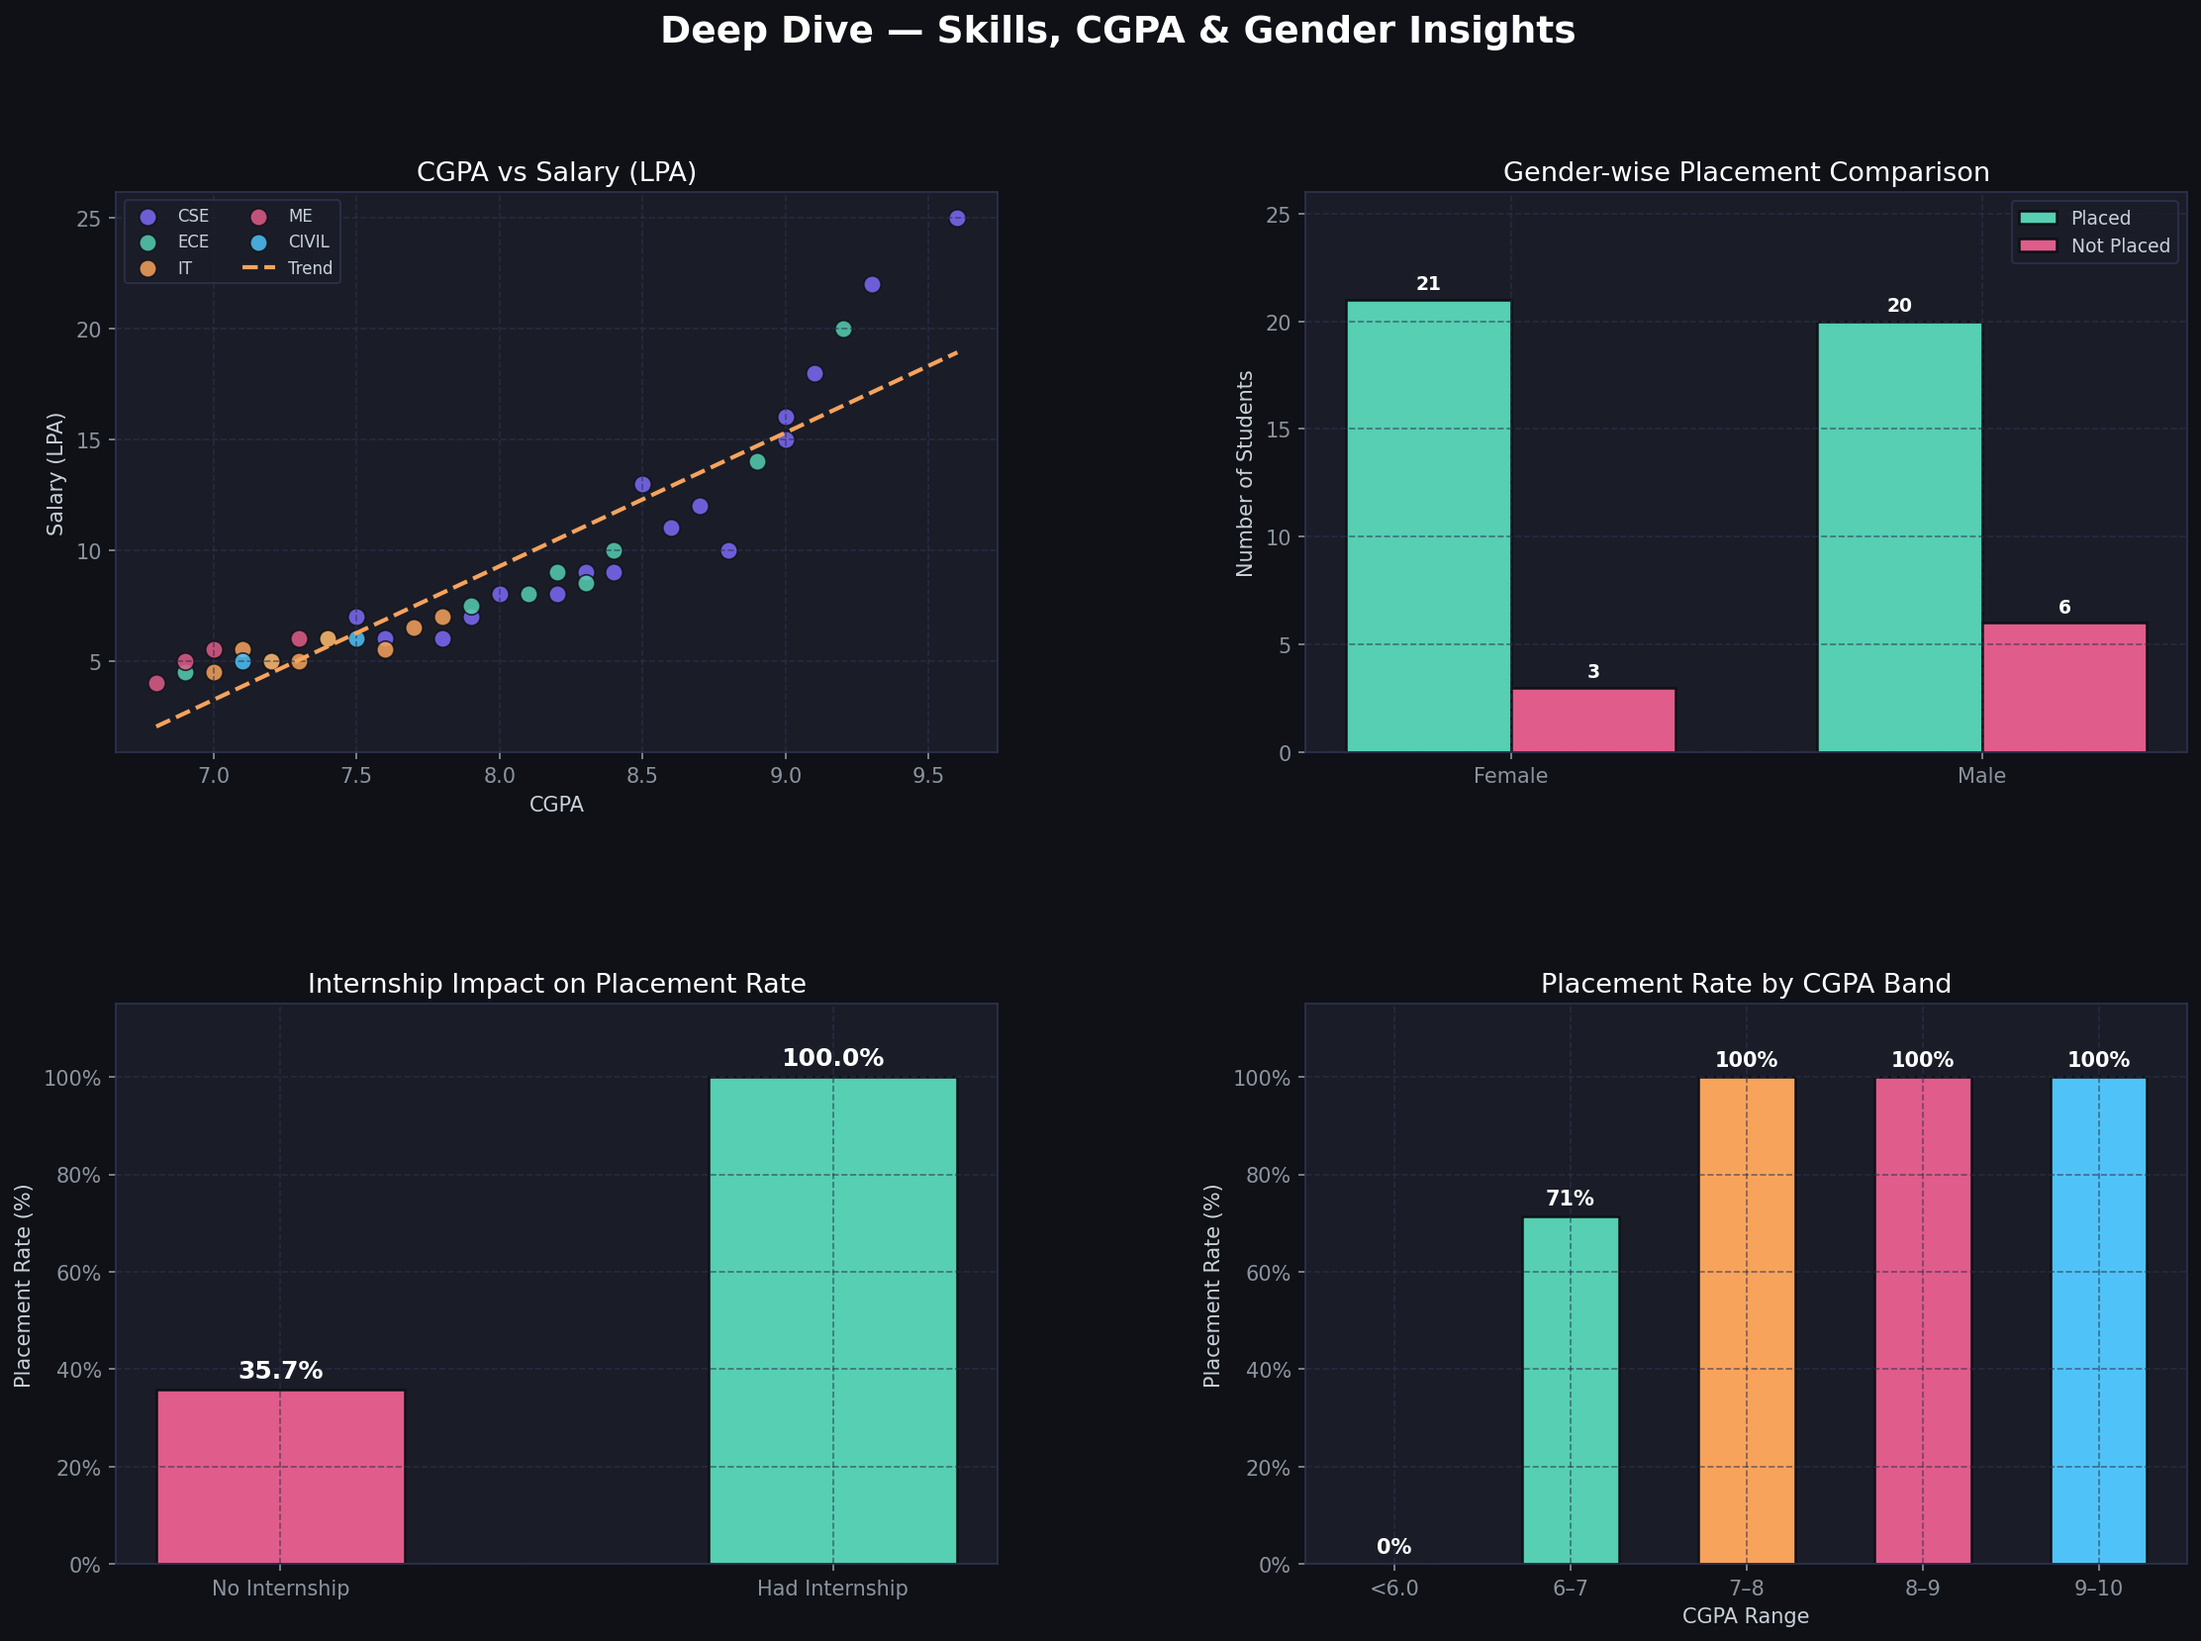
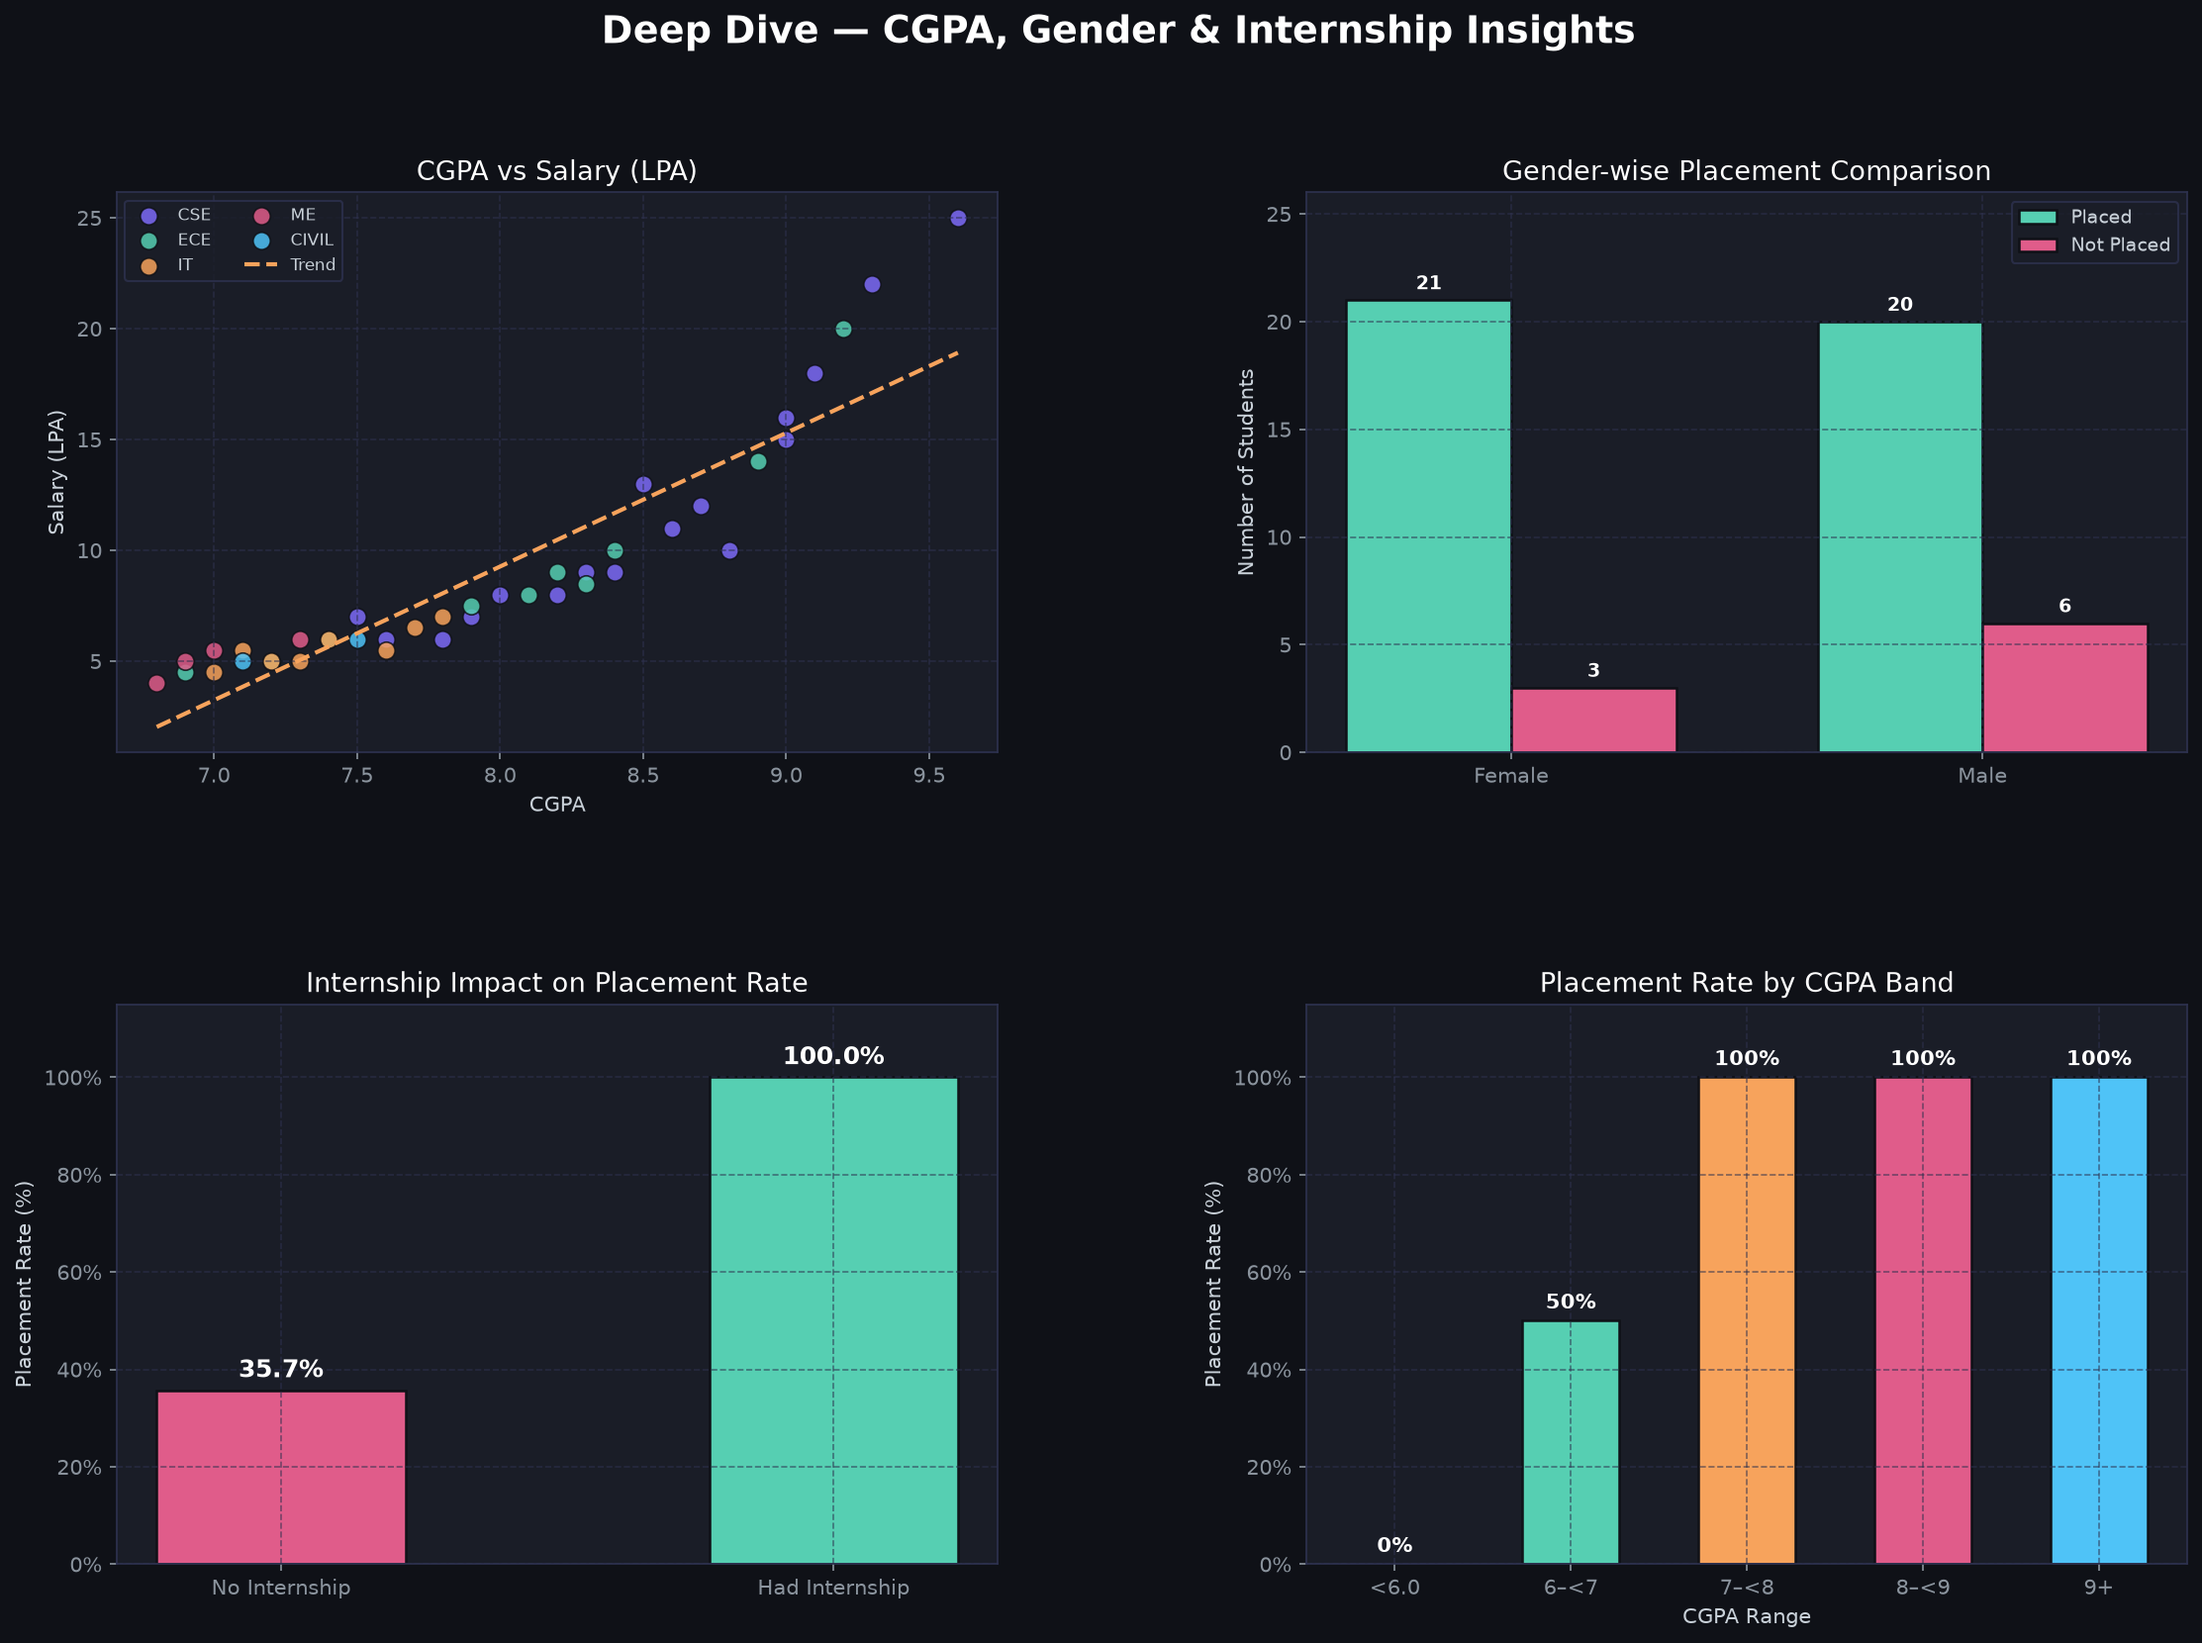
fix: align CGPA bands and dashboard descriptions

diff --git a/placement_analysis.py b/placement_analysis.py
@@ -3,7 +3,6 @@ import matplotlib
 matplotlib.use("Agg")          # non-interactive backend — works without a display
 import matplotlib.pyplot as plt
 import matplotlib.gridspec as gridspec
-import matplotlib.patches as mpatches
 import numpy as np
 from matplotlib.ticker import FuncFormatter
 
@@ -193,7 +192,7 @@ plt.close(fig1)
 # ─────────────────────────────────────────────
 fig2 = plt.figure(figsize=(18, 12))
 fig2.patch.set_facecolor("#0f1117")
-fig2.suptitle("Deep Dive — Skills, CGPA & Gender Insights", fontsize=18,
+fig2.suptitle("Deep Dive — CGPA, Gender & Internship Insights", fontsize=18,
               fontweight="bold", color="#ffffff", y=0.98)
 
 gs2 = gridspec.GridSpec(2, 2, figure=fig2, hspace=0.45, wspace=0.35)
@@ -260,9 +259,9 @@ for bar in bars8:
 
 # ── 9. CGPA Band Analysis ─────────────────────
 ax9 = fig2.add_subplot(gs2[1, 1])
-bins_cgpa  = [0, 6, 7, 8, 9, 10]
-labels_cgpa = ["<6.0", "6–7", "7–8", "8–9", "9–10"]
-data["CGPA_Band"] = pd.cut(data["CGPA"], bins=bins_cgpa, labels=labels_cgpa)
+bins_cgpa  = [0, 6, 7, 8, 9, np.inf]
+labels_cgpa = ["<6.0", "6–<7", "7–<8", "8–<9", "9+"]
+data["CGPA_Band"] = pd.cut(data["CGPA"], bins=bins_cgpa, labels=labels_cgpa, right=False)
 band_total  = data.groupby("CGPA_Band", observed=True).size()
 band_placed = data[data["Placed"] == "Yes"].groupby("CGPA_Band", observed=True).size()
 band_rate   = (band_placed / band_total * 100).fillna(0).round(1)

diff --git a/README.md b/README.md
@@ -28,7 +28,7 @@ A Python-based data analysis project that explores student placement trends acro
 - **CGPA vs Salary** - scatter plot with trend line, color-coded by department
 - **Gender comparison** - placed vs not placed breakdown
 - **Internship impact** - how having an internship affects placement odds
-- **CGPA band analysis** - placement rate across score ranges (< 6, 6–7, 7–8, 8–9, 9–10)
+- **CGPA band analysis** - placement rate across score ranges (< 6, 6–<7, 7–<8, 8–<9, 9+)
 - **Console report** - formatted summary with department table and top 5 packages
 
 ---
@@ -61,7 +61,7 @@ File: `placement_data.csv` - 50 student records
 | Highest Salary | 25 LPA (Google) |
 | Average Salary | 9.05 LPA |
 | Median Salary | 7.0 LPA |
-| Best Placed Dept | CSE (100%) |
+| Best Placed Depts | CSE, ECE, IT (100%) |
 | Top Recruiter | TCS |
 
 ---
